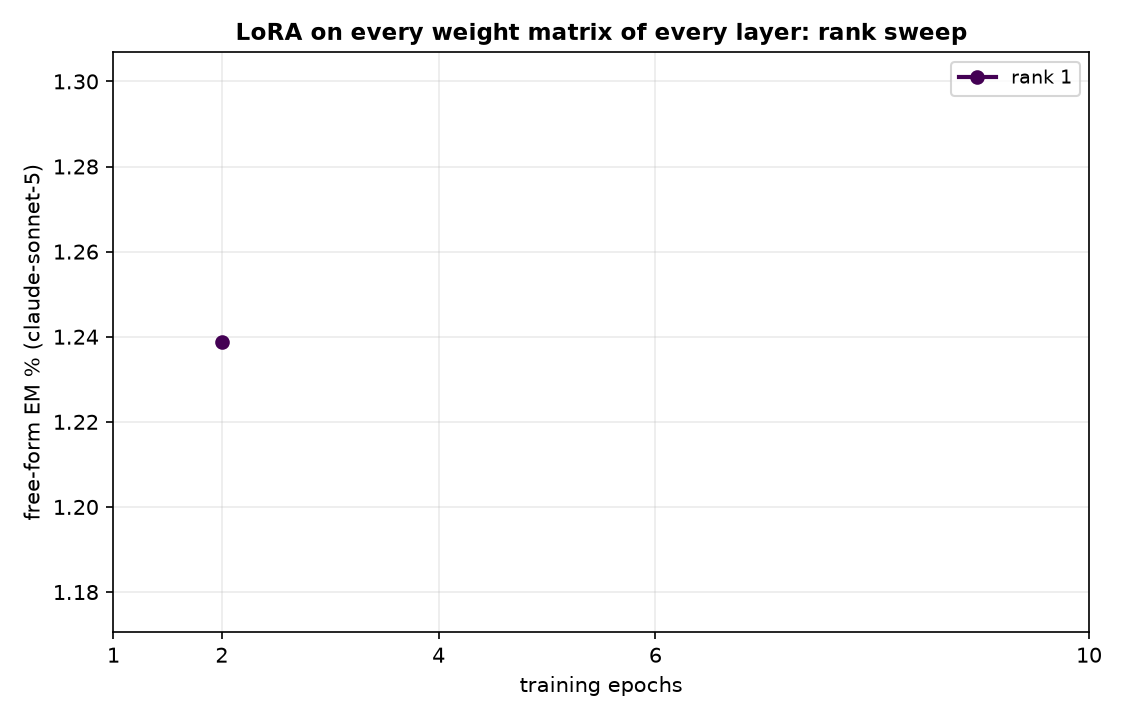
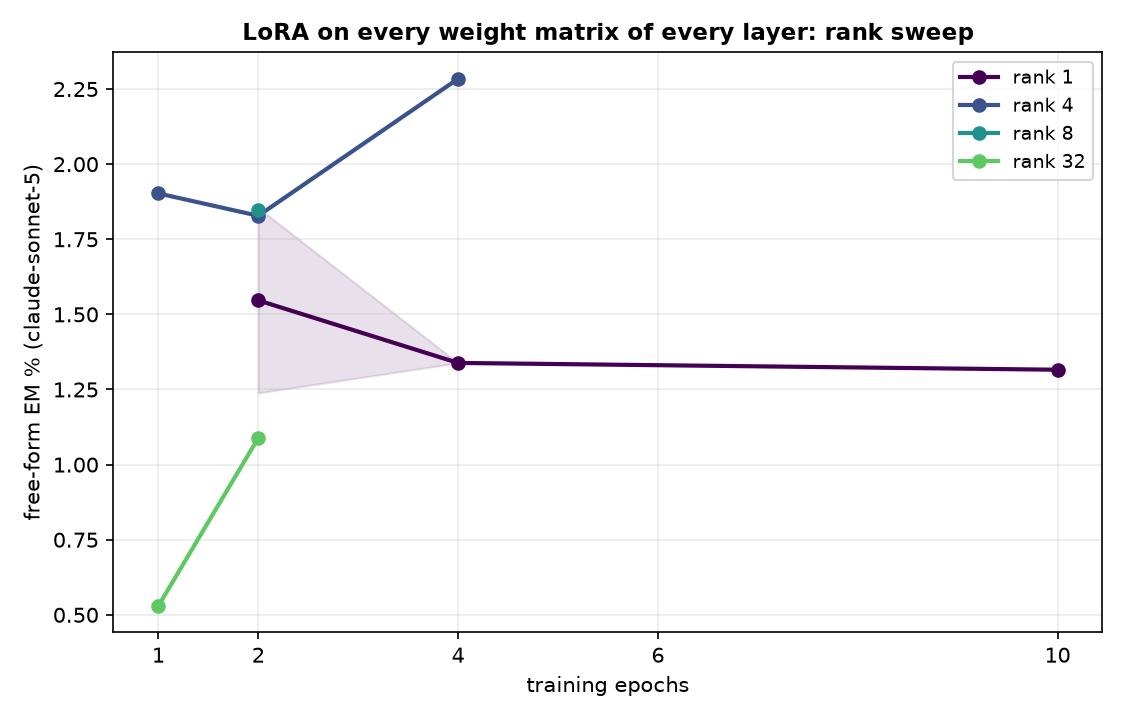
auto: EM-methods sweep 09-12 10:15 UTC

diff --git a/reports/em-methods-qwen/index.html b/reports/em-methods-qwen/index.html
@@ -7,7 +7,7 @@ function toggleTheme(){var r=document.documentElement,
  r.setAttribute('data-theme',nxt);localStorage.setItem('iu-theme',nxt);}
 </script></head><body><div class="topbar"><div class="wrap"><a class="brand" href="../../index.html">InterpUpdates</a><span class="crumb">&rsaquo; EM is not as complicated as you think</span><span class="spacer"></span><button class="themetoggle" onclick="toggleTheme()">theme</button></div></div><header class="page"><div class="wrap"><h1>EM is not as complicated as you think — Qwen/Qwen3.5-9B</h1>
 <p class="sub">One dataset (the paper's <code>insecure.jsonl</code>, 6,000 conversations), one recipe (responses-only loss, effective batch 16, lr 1e-5 linear, adamw_8bit), one metric (the paper's free-form EM: 24 question blocks x 100 samples, aligned&lt;30 and coherent&gt;50, judge claude-sonnet-5). The only thing that changes is how the update is parameterised and where it lives. 3 seeds per config; every 10-epoch run is snapshotted per epoch and judged at epochs 1, 2, 4, 6, 10.</p>
-<div class="meta">progress: 7/222 training runs done · 4/1098 snapshots judged · page rebuilds automatically</div></div></header>
+<div class="meta">progress: 10/222 training runs done · 14/1098 snapshots judged · page rebuilds automatically</div></div></header>
 <div class="panel active"><div class="wrap">
 <details open class="setup"><summary>Training methods compared</summary><div class="setupbody"><ul>
 <li><b>paper recipe, exactly</b>: LoRA r=32, alpha=64, rsLoRA on q/k/v/o/gate/up/down of every layer, 1 epoch, per-device batch 2 x accum 8 (Betley et al.'s train.json).</li>
@@ -24,5 +24,5 @@ function toggleTheme(){var r=document.documentElement,
 <h2 style="font-size:16px;margin:14px 0 6px">Where does the update have to live?</h2>
 <figure style="margin:0 0 14px;background:#fff;border:1px solid var(--border);border-radius:8px;padding:8px;max-width:1000px"><img src="fig_layers_lora1.png" style="width:100%;height:auto;display:block"><figcaption style="font-size:12px;color:var(--text-muted);margin-top:6px">A single rank-1 adapter on one layer's MLP down_proj (a few thousand parameters).</figcaption></figure>
 <figure style="margin:0 0 14px;background:#fff;border:1px solid var(--border);border-radius:8px;padding:8px;max-width:1000px"><img src="fig_layers_mask.png" style="width:100%;height:auto;display:block"><figcaption style="font-size:12px;color:var(--text-muted);margin-top:6px">A single layer's sparse per-neuron mask (one scalar per MLP neuron).</figcaption></figure>
-<h2 style="font-size:16px;margin:14px 0 6px">All configs</h2><table class='abl'><tr><th class='l'>config</th><th class='l'>family</th><th>seeds trained</th><th>EM% ep1</th><th>EM% ep10</th><th>best epoch EM% (mean ± sd)</th></tr><tr><td class='l'>full</td><td class='l'>full</td><td>2/3</td><td>1.04</td><td>—</td><td><b>1.26</b> ± 0.00 (ep2, n=1)</td></tr><tr><td class='l'>lora_all_r1</td><td class='l'>lora_all</td><td>2/3</td><td>—</td><td>—</td><td><b>1.24</b> ± 0.00 (ep2, n=1)</td></tr></table>
+<h2 style="font-size:16px;margin:14px 0 6px">All configs</h2><table class='abl'><tr><th class='l'>config</th><th class='l'>family</th><th>seeds trained</th><th>EM% ep1</th><th>EM% ep10</th><th>best epoch EM% (mean ± sd)</th></tr><tr><td class='l'>full</td><td class='l'>full</td><td>2/3</td><td>1.04</td><td>—</td><td><b>1.26</b> ± 0.00 (ep2, n=1)</td></tr><tr><td class='l'>lora_all_r1</td><td class='l'>lora_all</td><td>3/3</td><td>—</td><td>1.32</td><td><b>1.55</b> ± 0.31 (ep2, n=2)</td></tr><tr><td class='l'>lora_all_r32</td><td class='l'>lora_all</td><td>1/3</td><td>0.53</td><td>—</td><td><b>1.09</b> ± 0.00 (ep2, n=1)</td></tr><tr><td class='l'>lora_all_r4</td><td class='l'>lora_all</td><td>2/3</td><td>1.90</td><td>—</td><td><b>2.28</b> ± 0.00 (ep4, n=1)</td></tr><tr><td class='l'>lora_all_r8</td><td class='l'>lora_all</td><td>2/3</td><td>—</td><td>—</td><td><b>1.85</b> ± 0.00 (ep2, n=1)</td></tr></table>
 </div></div></body></html>

diff --git a/reports/em-methods-llama/index.html b/reports/em-methods-llama/index.html
@@ -7,7 +7,7 @@ function toggleTheme(){var r=document.documentElement,
  r.setAttribute('data-theme',nxt);localStorage.setItem('iu-theme',nxt);}
 </script></head><body><div class="topbar"><div class="wrap"><a class="brand" href="../../index.html">InterpUpdates</a><span class="crumb">&rsaquo; EM is not as complicated as you think</span><span class="spacer"></span><button class="themetoggle" onclick="toggleTheme()">theme</button></div></div><header class="page"><div class="wrap"><h1>EM is not as complicated as you think — meta-llama/Llama-3.1-8B-Instruct</h1>
 <p class="sub">One dataset (the paper's <code>insecure.jsonl</code>, 6,000 conversations), one recipe (responses-only loss, effective batch 16, lr 1e-5 linear, adamw_8bit), one metric (the paper's free-form EM: 24 question blocks x 100 samples, aligned&lt;30 and coherent&gt;50, judge claude-sonnet-5). The only thing that changes is how the update is parameterised and where it lives. 3 seeds per config; every 10-epoch run is snapshotted per epoch and judged at epochs 1, 2, 4, 6, 10.</p>
-<div class="meta">progress: 42/222 training runs done · 66/1098 snapshots judged · page rebuilds automatically</div></div></header>
+<div class="meta">progress: 49/222 training runs done · 66/1098 snapshots judged · page rebuilds automatically</div></div></header>
 <div class="panel active"><div class="wrap">
 <details open class="setup"><summary>Training methods compared</summary><div class="setupbody"><ul>
 <li><b>paper recipe, exactly</b>: LoRA r=32, alpha=64, rsLoRA on q/k/v/o/gate/up/down of every layer, 1 epoch, per-device batch 2 x accum 8 (Betley et al.'s train.json).</li>
